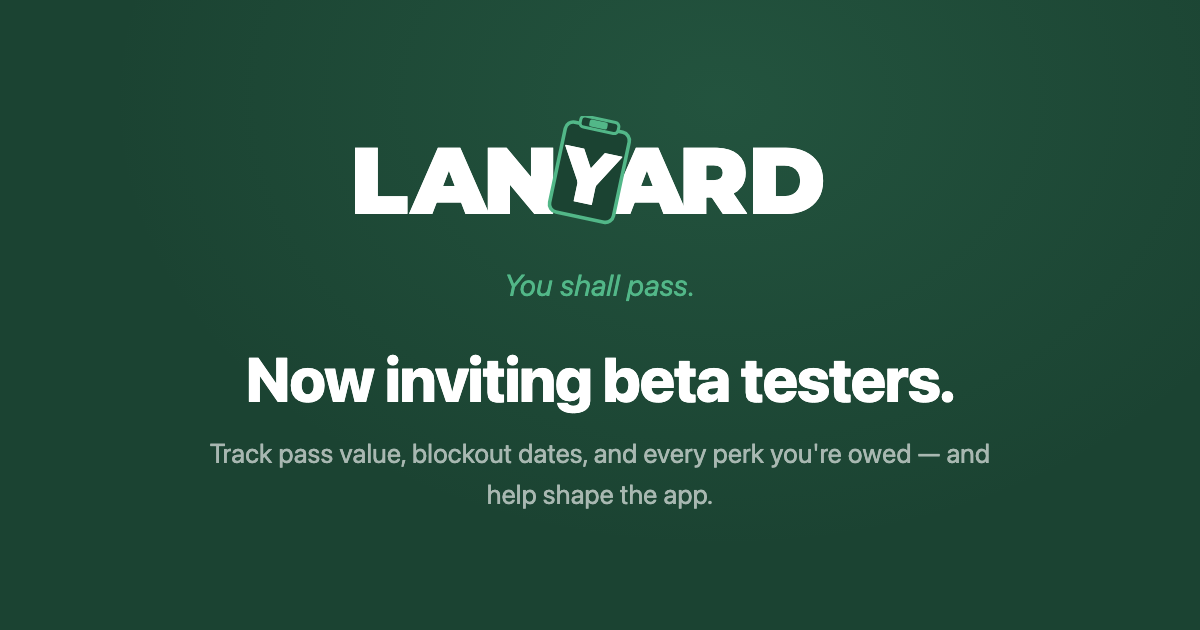
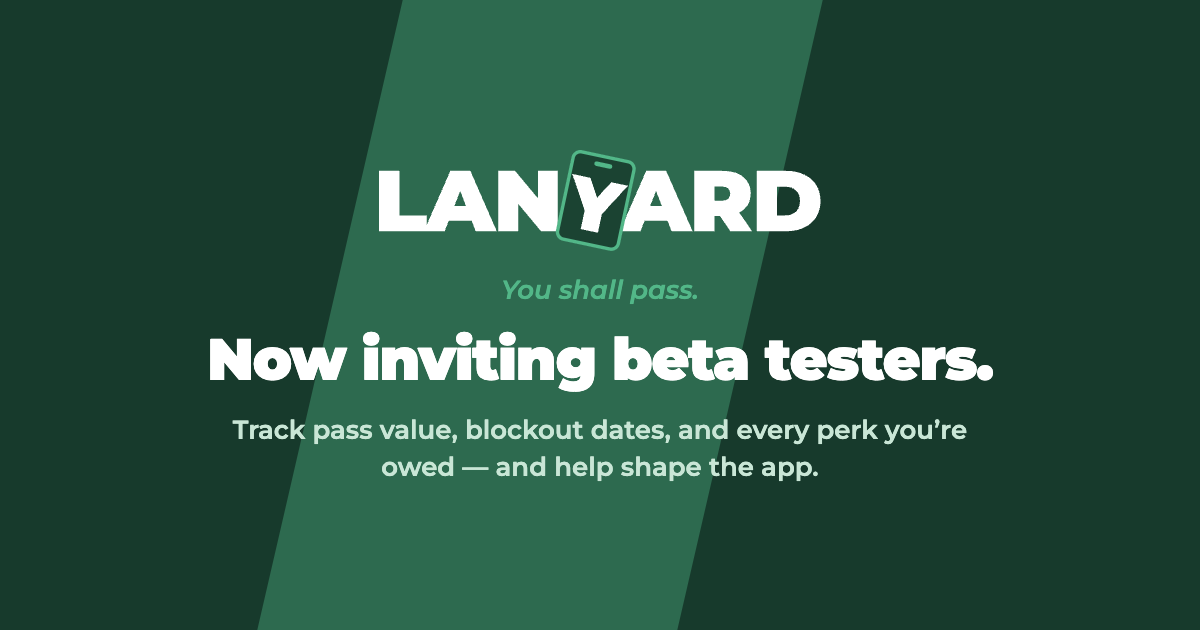
assets: rebuild og-image-beta with current wordmark (scripts/og.html renderer, beta+launch variants) + cache-bust to v=2

diff --git a/scripts/og.html b/scripts/og.html
@@ -1,0 +1,77 @@
+<!DOCTYPE html>
+<html>
+<head>
+<meta charset="utf-8">
+<title>Lanyard — OG card renderer (beta + launch)</title>
+<!-- Renders the sitewide 1200×630 link-preview card. Two variants:
+       ?v=beta   → og-image-beta.png  (pre-launch: "Now inviting beta testers.")
+       ?v=launch → og-image.png      (launch: companion headline + App Store line)
+
+     Export (from landing/scripts/):
+       "/Applications/Google Chrome.app/Contents/MacOS/Google Chrome" \
+         --headless --window-size=1200,630 --virtual-time-budget=20000 \
+         --screenshot=../public/og-image-beta.png "file://$PWD/og.html?v=beta"
+       (same with ?v=launch → ../public/og-image.png)
+
+     The wordmark is the font-free outlined-path SVG (public/press/), inlined
+     below so this file has no asset dependency besides Google Fonts. -->
+<link rel="preconnect" href="https://fonts.googleapis.com">
+<link rel="preconnect" href="https://fonts.gstatic.com" crossorigin>
+<link href="https://fonts.googleapis.com/css2?family=Montserrat:ital,wght@0,600;0,900;1,600&display=swap" rel="stylesheet">
+<style>
+  html, body { margin: 0; padding: 0; }
+  .card {
+    width: 1200px; height: 630px; position: relative; overflow: hidden;
+    background: #173A2C;
+    font-family: Montserrat, sans-serif;
+    display: flex; flex-direction: column; align-items: center; justify-content: center;
+    text-align: center;
+  }
+  /* one diagonal forest band, echoing the store set's color-block language */
+  .band {
+    position: absolute; top: -40px; bottom: -40px; width: 420px;
+    background: #2D6A4F; transform: skewX(-13deg); left: 330px;
+  }
+  .inner { position: relative; z-index: 1; display: grid; justify-items: center; gap: 18px; padding: 0 90px; }
+  .wordmark { width: 460px; height: auto; }
+  .tagline { color: #52B788; font-style: italic; font-weight: 600; font-size: 26px; margin: 0; }
+  .head { color: #fff; font-weight: 900; font-size: 58px; letter-spacing: -0.02em; margin: 6px 0 0; line-height: 1.04; }
+  .sub { color: #C9E6D6; font-weight: 600; font-size: 26px; line-height: 1.4; margin: 4px 0 0; max-width: 30em; }
+</style>
+</head>
+<body>
+<div class="card">
+  <div class="band"></div>
+  <div class="inner">
+    <svg class="wordmark" xmlns="http://www.w3.org/2000/svg" viewBox="-2 -6 224 54" role="img" aria-label="Lanyard">
+      <path d="M2.394 36.0V6.599999999999998H12.306000000000001V28.314H25.578000000000003V36.0ZM24.276000000000003 36.0 37.128 6.599999999999998H46.872L59.724000000000004 36.0H49.476L47.502 30.875999999999998H36.33L34.356 36.0ZM39.06 23.735999999999997H44.772000000000006L41.916000000000004 16.343999999999998ZM60.48 36.0V6.599999999999998H68.628L79.8 19.956V6.599999999999998H89.46000000000001V36.0H81.312L70.14 22.644V36.0Z" fill="#FFFFFF"/>
+      <path d="M119.642 36.0 132.494 6.599999999999998H142.238L155.09 36.0H144.84199999999998L142.868 30.875999999999998H131.696L129.722 36.0ZM134.426 23.735999999999997H140.138L137.282 16.343999999999998ZM155.846 36.0V6.599999999999998H169.57999999999998Q176.34199999999998 6.599999999999998 179.87 9.581999999999999Q183.398 12.564 183.398 17.688Q183.398 20.88 181.949 23.232Q180.5 25.584 177.85399999999998 26.927999999999997L184.028 36.0H173.444L168.446 28.608H165.758V36.0ZM165.758 21.131999999999998H169.37Q171.428 21.131999999999998 172.415 20.208Q173.402 19.284 173.402 17.688Q173.402 16.092 172.415 15.168Q171.428 14.244 169.37 14.244H165.758ZM186.296 36.0V6.599999999999998H200.786Q205.7 6.599999999999998 209.438 8.384999999999998Q213.176 10.169999999999998 215.27599999999998 13.445999999999998Q217.37599999999998 16.721999999999998 217.37599999999998 21.299999999999997Q217.37599999999998 25.836 215.27599999999998 29.133Q213.176 32.43 209.438 34.215Q205.7 36.0 200.786 36.0ZM196.208 28.272H200.36599999999999Q203.474 28.272 205.427 26.466Q207.38 24.66 207.38 21.299999999999997Q207.38 17.939999999999998 205.427 16.134Q203.474 14.328 200.36599999999999 14.328H196.208Z" fill="#FFFFFF"/>
+      <g transform="rotate(12 107.94 21) translate(107.94 21) scale(1.1) translate(-107.94 -21)">
+        <rect x="94.19" y="1.25" width="27.5" height="39.5" rx="3.25" fill="#1B4332" stroke="#52B788" stroke-width="1.5"/>
+        <rect x="103.91" y="4.0" width="8.06" height="2.02" rx="1.01" fill="#52B788"/>
+        <path d="M104.04599999999999 34.79V26.308999999999997L95.33399999999999 11.689999999999998H103.55099999999999L108.27 19.676L113.02199999999999 11.689999999999998H120.54599999999999L111.83399999999999 26.408V34.79Z" fill="#FFFFFF"/>
+      </g>
+    </svg>
+    <p class="tagline">You shall pass.</p>
+    <h1 class="head" id="head"></h1>
+    <p class="sub" id="sub"></p>
+  </div>
+</div>
+<script>
+  const v = new URLSearchParams(location.search).get('v') || 'beta';
+  const COPY = {
+    beta: {
+      head: 'Now inviting beta testers.',
+      sub: 'Track pass value, blockout dates, and every perk you’re owed — and help shape the app.',
+    },
+    launch: {
+      head: 'Your annual pass companion.',
+      sub: 'Make every park day worth it. Free on the App Store.',
+    },
+  };
+  document.getElementById('head').textContent = COPY[v].head;
+  document.getElementById('sub').textContent = COPY[v].sub;
+  document.title = 'RENDERED ' + v;
+</script>
+</body>
+</html>